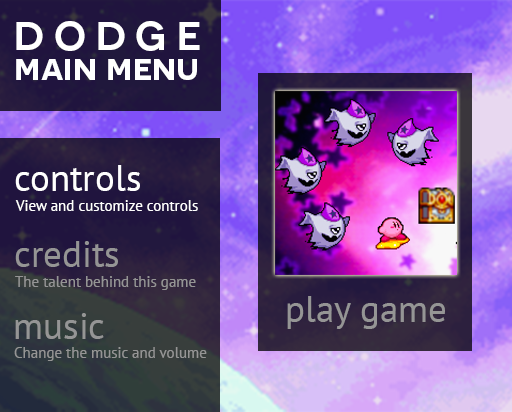
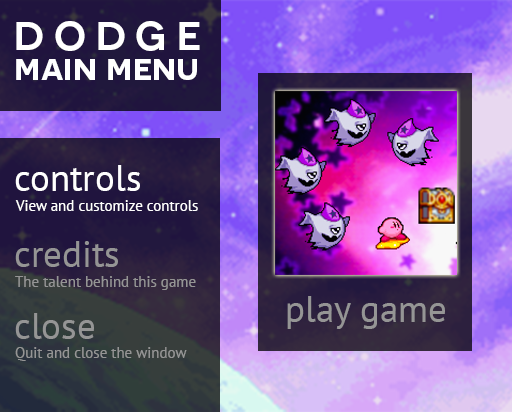
Updated credits with new team member

Changed region(s): [[0.0312, 0.7573, 0.4062, 0.8738]]

diff --git a/Dodge/MainMenuPanel.java b/Dodge/MainMenuPanel.java
@@ -1,6 +1,8 @@
 package Dodge;
 
 import java.awt.Image;
+import java.awt.Graphics;
+import java.awt.Graphics2D;
 import java.awt.event.KeyEvent;
 import java.awt.event.KeyAdapter;
 
@@ -9,6 +11,8 @@ import java.awt.event.KeyAdapter;
  * @author Owen Jow
  */
 public class MainMenuPanel extends MenuPanel {
+    private boolean isTitleScr;
+    private static final Image TITLE_SCR = Images.get("titleScreen");
     
     /** 
      * Constructs a minigame menu panel. Initializes images.
@@ -16,8 +20,19 @@ public class MainMenuPanel extends MenuPanel {
     public MainMenuPanel() {
         // Initialize images
         menuImages = new Image[] { Images.get("mmControls"), Images.get("mmCredits"),
-                 Images.get("mmMusic"), Images.get("mmPlay") };
+                 Images.get("mmClose"), Images.get("mmPlay") };
         this.kl = new KeyListener();
+        isTitleScr = true;
+    }
+    
+    /**
+     * Paints the menu's background image.
+     * @param g the graphics object
+     */
+    @Override
+    public void paintComponent(Graphics g) {
+        Graphics2D g2 = (Graphics2D) g;
+        g2.drawImage((isTitleScr)? TITLE_SCR : menuImages[imgIndex], 0, 0, null);
     }
     
     /**
@@ -32,7 +47,9 @@ public class MainMenuPanel extends MenuPanel {
         public void keyPressed(KeyEvent evt) {
             int keyCode = evt.getKeyCode();
             
-            if (keyCode == KeyEvent.VK_LEFT || keyCode == KeyEvent.VK_RIGHT) {
+            if (isTitleScr) { 
+                isTitleScr = false; // transition out of the title screen
+            } else if (keyCode == KeyEvent.VK_LEFT || keyCode == KeyEvent.VK_RIGHT) {
                 imgIndex = (imgIndex == 3) ? 0 : 3;
             } else if (keyCode == KeyEvent.VK_DOWN) {
                 if (imgIndex < 2) { 
@@ -54,6 +71,7 @@ public class MainMenuPanel extends MenuPanel {
                         GameState.dodgePreGPanel.activate();
                         break;
                     case 2:
+                        System.exit(0); // quit the program and close the window
                     case 1:
                         GameState.layout.show(GameState.contentPanel, "credits");
                         GameState.creditsPanel.activate();

diff --git a/Dodge/Images.java b/Dodge/Images.java
@@ -39,12 +39,14 @@ public class Images {
      * These displays differ only in which menu option is highlighted.
      */
     private static void initializeMenuImages() {
+        images.put("titleScreen",
+                new ImageIcon(Images.class.getResource("/images/dodge_titlesc.png")).getImage());
         images.put("mmControls",
                 new ImageIcon(Images.class.getResource("/images/mmControls.png")).getImage());
         images.put("mmCredits",
                 new ImageIcon(Images.class.getResource("/images/mmCredits.png")).getImage());
-        images.put("mmMusic",
-                new ImageIcon(Images.class.getResource("/images/mmMusic.png")).getImage());
+        images.put("mmClose",
+                new ImageIcon(Images.class.getResource("/images/mmClose.png")).getImage());
         images.put("mmPlay",
                 new ImageIcon(Images.class.getResource("/images/mmPlay.png")).getImage());
     }
@@ -173,6 +175,8 @@ public class Images {
                 new ImageIcon(Images.class.getResource("/images/owenjow.png")).getImage());
         images.put("williamjow",
                 new ImageIcon(Images.class.getResource("/images/williamjow.png")).getImage());
+        images.put("randyshi",
+                new ImageIcon(Images.class.getResource("/images/randyshi.png")).getImage());
     }
     
     /**

diff --git a/Dodge/CreditsPanel.java b/Dodge/CreditsPanel.java
@@ -19,7 +19,7 @@ public class CreditsPanel extends JPanel implements ActionListener {
     private Timer timer;
     private static final Image CREDITS_BACKGROUND = Images.get("creditsBackground");
     private static final Image[] CREDITS = new Image[] { Images.get("owenjow"),
-            Images.get("williamjow") }; // the credits will be printed in this order
+            Images.get("williamjow"), Images.get("randyshi") }; // credits are printed in this order
     // Positional coordinates for the actual credits [note: CR = credits]
     private static final int ODD_FINAL_X = -1, INIT_X = 512, CR_INIT_Y = 130, CR_Y_OFFSET = 66,
             SPEEDUP_DIST = 130;

diff --git a/Dodge/Dodge.java b/Dodge/Dodge.java
@@ -8,6 +8,7 @@ import java.io.FileNotFoundException;
 import java.io.ObjectInputStream;
 import java.io.ObjectOutputStream;
 import javax.swing.JApplet;
+import javafx.scene.media.MediaPlayer;
 
 /**
  * Dodge, a Kirby-based minigame.
